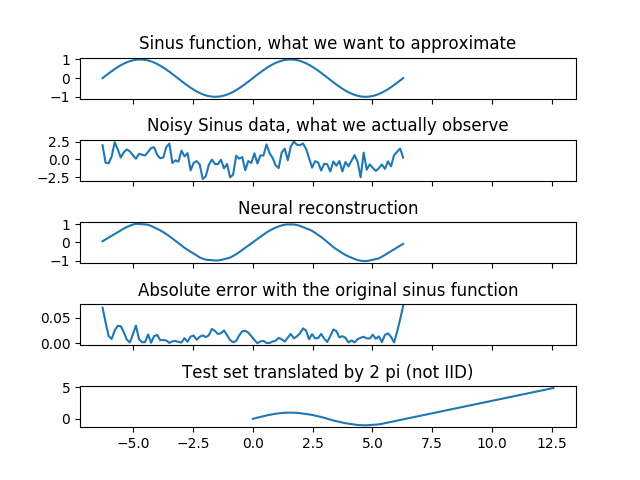
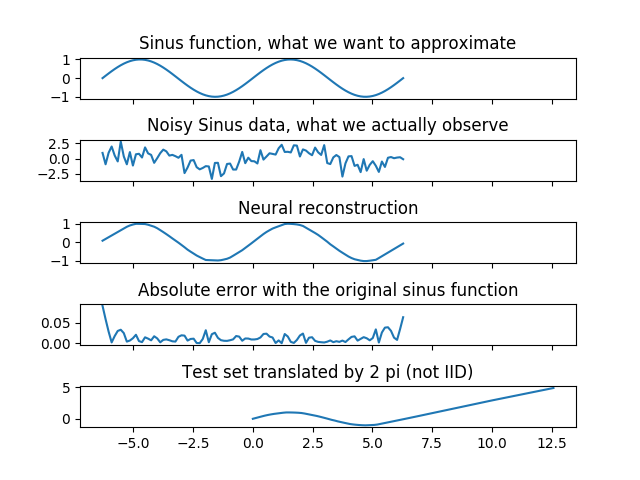
Fix notes_mse python script

diff --git a/notes_mse/additive_noise.py b/notes_mse/additive_noise.py
@@ -42,7 +42,7 @@ axarr[1].plot(lin_x, noisy_y)
 
 #### PART 2: Build a model based on the insights you gathered from looking into your dataset
 # We will build a basic 2-layer FC NN (It is an universal approximator after all)
-nb_hd_units = 25
+nb_hd_units = 50
 with tf.variable_scope('model'):
     x_plh = tf.placeholder(tf.float32, name='x_plh', shape=[None, 1])
     y_plh = tf.placeholder(tf.float32, name='y_plh', shape=[None, 1])
@@ -53,11 +53,11 @@ with tf.variable_scope('model'):
     b1 = tf.get_variable('b1', shape=[nb_hd_units], initializer=tf.constant_initializer(0.))
     a = tf.nn.relu(tf.matmul(x_plh, w1) + b1)
 
-    w2 = tf.get_variable('w2', shape=[nb_hd_units, nb_hd_units*2], initializer=tf.random_uniform_initializer(-2e-1, 2e-1))
-    b2 = tf.get_variable('b2', shape=[nb_hd_units*2], initializer=tf.constant_initializer(0.))
+    w2 = tf.get_variable('w2', shape=[nb_hd_units, nb_hd_units], initializer=tf.random_uniform_initializer(-2e-1, 2e-1))
+    b2 = tf.get_variable('b2', shape=[nb_hd_units], initializer=tf.constant_initializer(0.))
     a = tf.nn.relu(tf.matmul(a, w2) + b2)
 
-    w3 = tf.get_variable('w3', shape=[nb_hd_units*2, 1], initializer=tf.random_uniform_initializer(-2e-1, 2e-1))
+    w3 = tf.get_variable('w3', shape=[nb_hd_units, 1], initializer=tf.random_uniform_initializer(-2e-1, 2e-1))
     out = tf.matmul(a, w3)
 
 with tf.variable_scope('loss'):
@@ -79,7 +79,7 @@ with tf.variable_scope('loss'):
 
 # We generate our training set: 50 000 points 
 # The training data are I.I.D and following an additive noise pattern
-x = np.random.uniform(-2*math.pi, 2*math.pi, [499998, 1])
+x = np.random.uniform(-2*math.pi, 2*math.pi, [500000, 1])
 noisy_y = np.sin(x) + np.random.normal(scale=std_dev, size=(500000, 1))
 
 with tf.Session() as sess:
